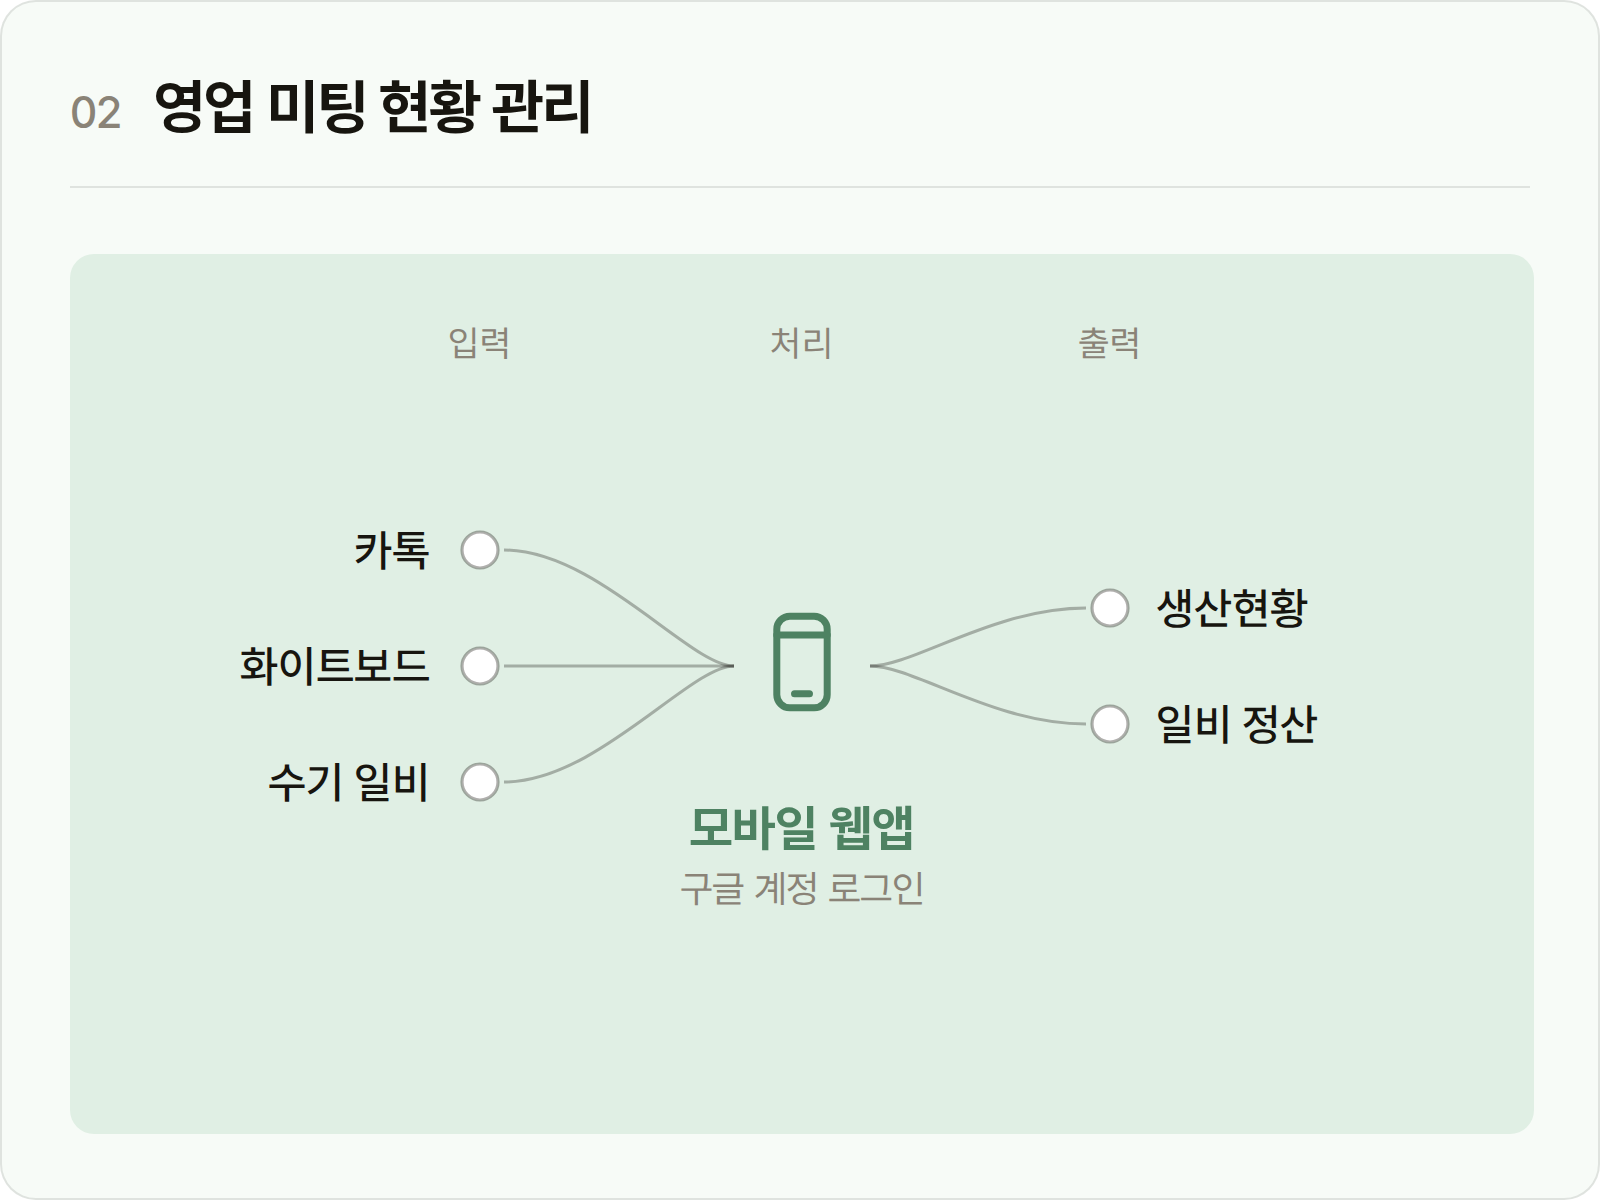
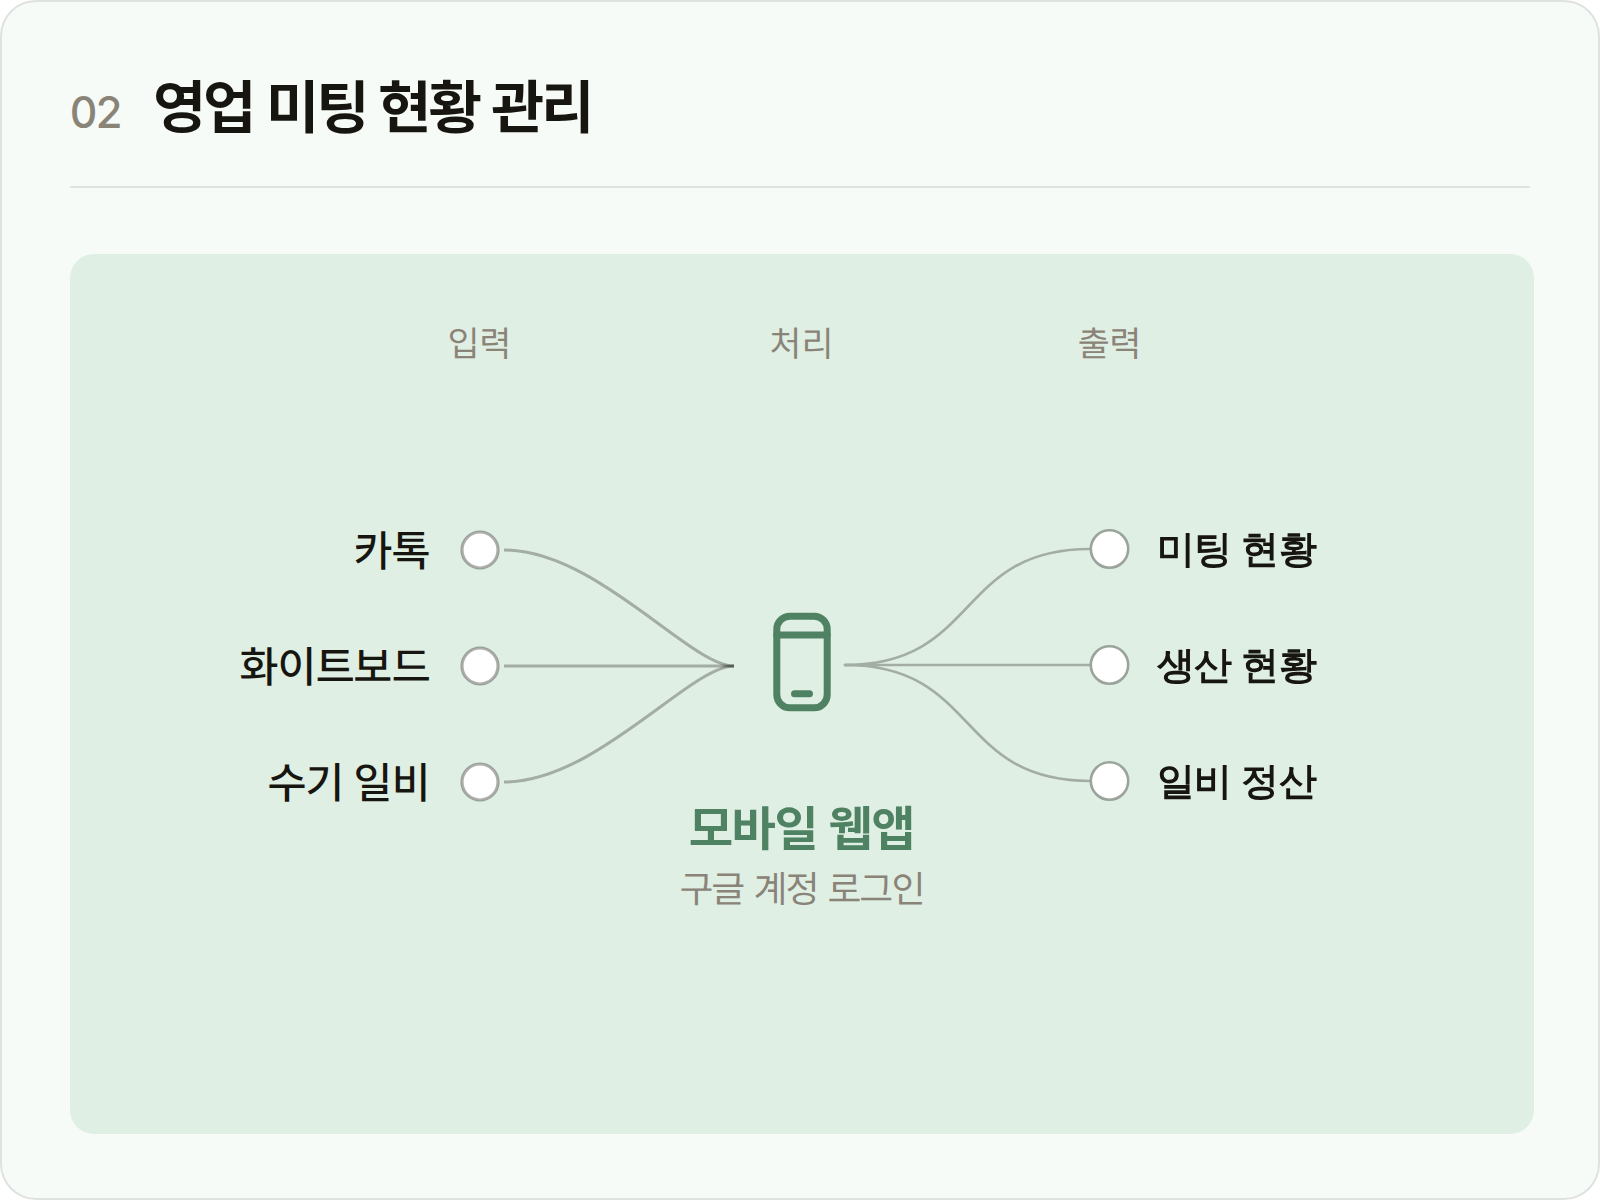
영업미팅 구조도 교체 - 세 페이지 형식 통일
- assets/kv/sales.png 업데이트 반영 (출력 3개: 미팅 현황·생산 현황·일비 정산)
- 영업미팅 상세 상단의 다크판(sales-hero.png)을 같은 밝은 버전으로 교체.
  이제 세 프로젝트 페이지가 모두 1600x1200 밝은 카드 구조도로 통일된다.
  alt 텍스트도 현재 도식 내용에 맞게 수정
- sales-hero.png 는 참조하는 곳이 없어졌으나 파일은 남겨둔다

Claude-Session: https://claude.ai/code/session_01JV8cboQsGSXVbJp96Utu3E

Changed region(s): [[0.6562, 0.4317, 0.8438, 0.6783], [0.5312, 0.4933, 0.625, 0.5858], [0.5938, 0.5858, 0.625, 0.6167]]

diff --git a/projects/sales-meeting.html b/projects/sales-meeting.html
@@ -241,7 +241,7 @@ a{color:inherit;text-decoration:none}
   </div>
 </header>
 
-<div class="kv"><div class="wrap"><img src="../assets/kv/sales-hero.png" alt="영업 미팅 기록이 일비 엑셀·통계·캘린더로 자동 정리되는 구조도" data-fade width="1600" height="940"></div></div>
+<div class="kv"><div class="wrap"><img src="../assets/kv/sales.png" alt="카톡·화이트보드·수기 일비를 모바일 웹앱으로 모아 미팅 현황·생산 현황·일비 정산으로 정리하는 구조도" data-fade width="1600" height="1200"></div></div>
 
 <div class="seam"></div>
 
